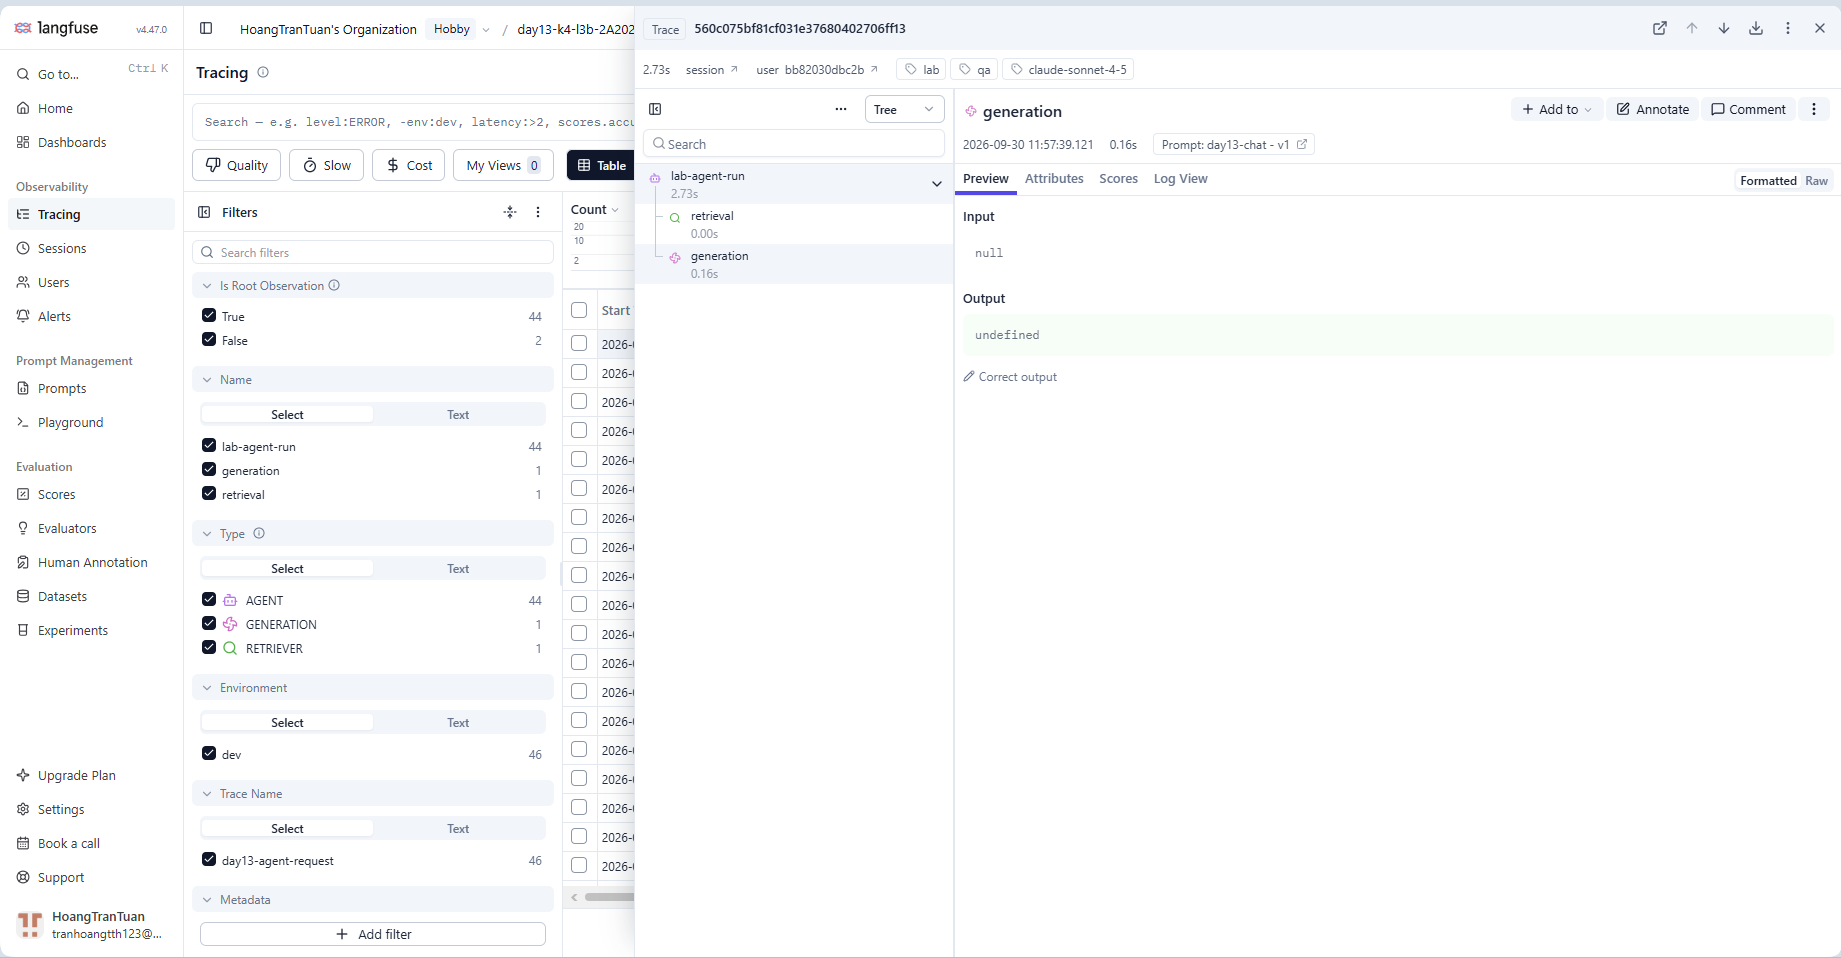
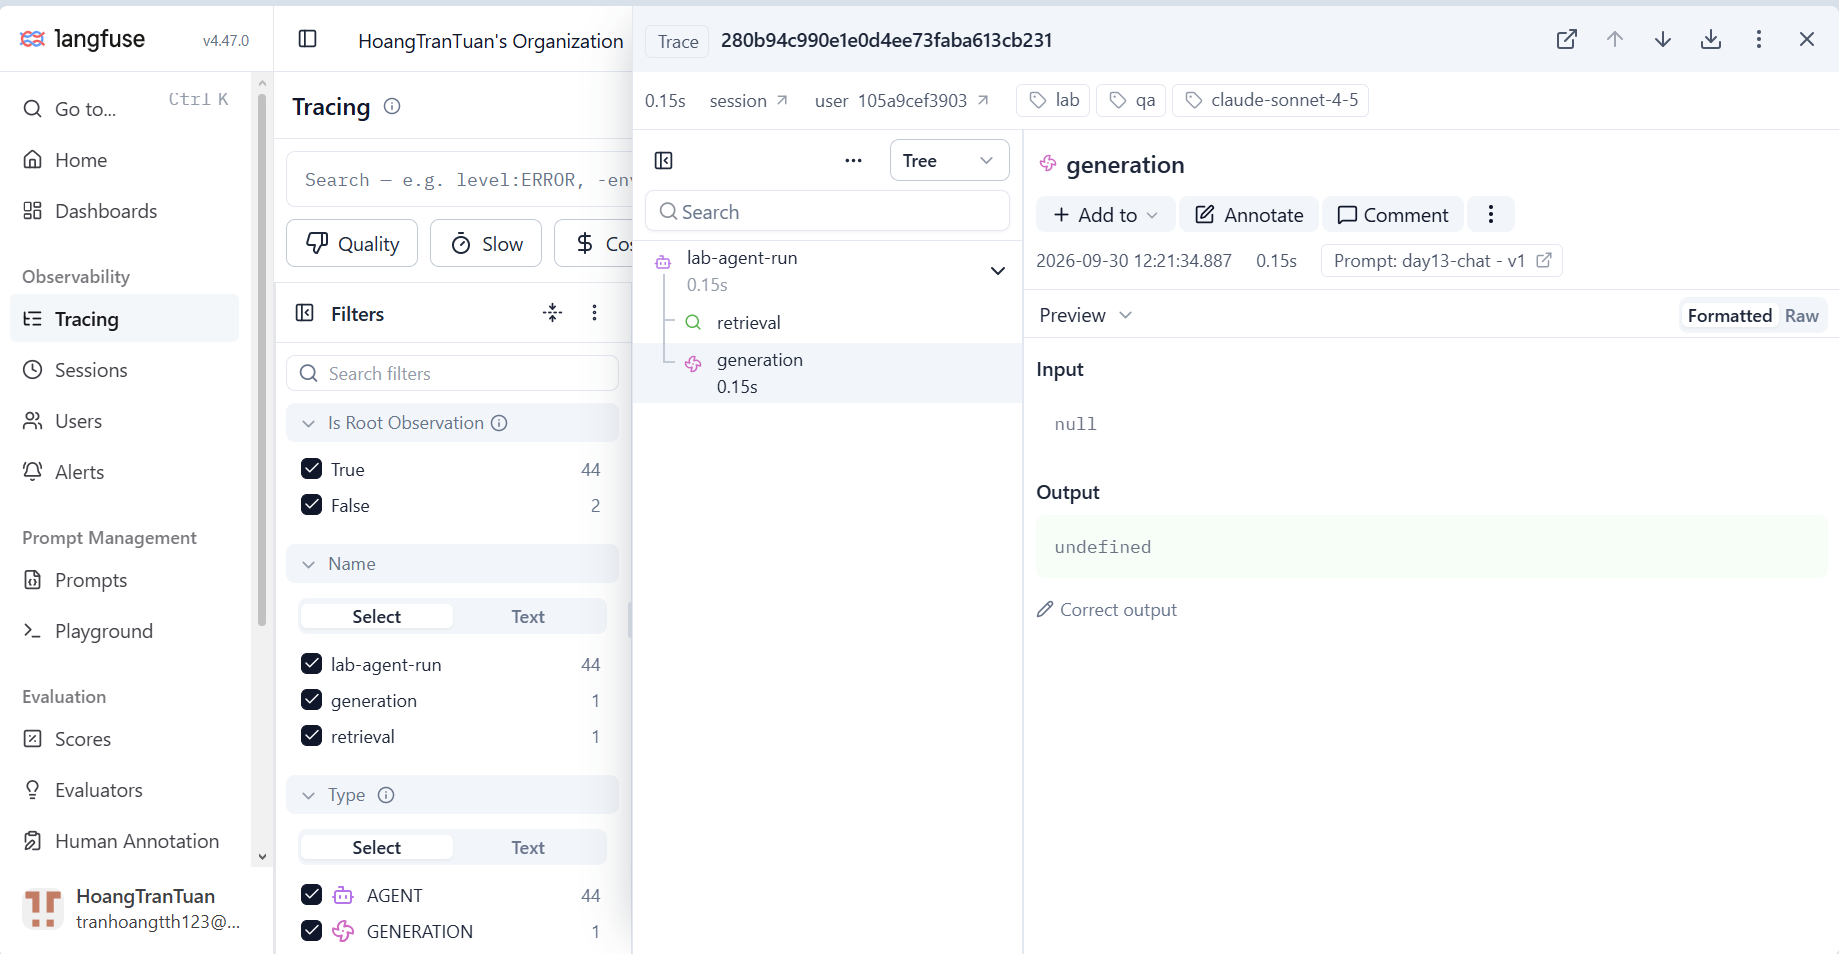
Update evidence

diff --git a/submission/evidence/dashboard.html b/submission/evidence/dashboard.html
@@ -56,7 +56,7 @@
         <div class="meta">
             <span class="badge">Time Range: Last 60m (UTC)</span>
             <span class="badge">Refresh: 30s</span>
-            <span class="badge">Records: 69 (69 in window)</span>
+            <span class="badge">Records: 40 (40 in window)</span>
         </div>
     </div>
 
@@ -71,15 +71,15 @@
             <div class="metrics-summary">
                 <div class="metric-item">
                     <div class="metric-label">P50</div>
-                    <div class="metric-value">2651.0 ms</div>
+                    <div class="metric-value">151.0 ms</div>
                 </div>
                 <div class="metric-item">
                     <div class="metric-label">P95</div>
-                    <div class="metric-value status-ok">2654.0 ms</div>
+                    <div class="metric-value status-ok">170.6 ms</div>
                 </div>
                 <div class="metric-item">
                     <div class="metric-label">P99</div>
-                    <div class="metric-value">2654.0 ms</div>
+                    <div class="metric-value">453.32 ms</div>
                 </div>
                 <div class="metric-item">
                     <div class="metric-label">TTFT P95</div>
@@ -90,9 +90,9 @@
                 <div class="threshold-line" style="bottom: 75%;">
                     <span class="threshold-label">SLO Threshold: 3000ms</span>
                 </div>
-                <div class="bar-group"><div class="bar" style="height: 66%;"></div><span class="bar-label">P50</span></div>
-                <div class="bar-group"><div class="bar" style="height: 66%;"></div><span class="bar-label">P95</span></div>
-                <div class="bar-group"><div class="bar" style="height: 66%;"></div><span class="bar-label">P99</span></div>
+                <div class="bar-group"><div class="bar" style="height: 5%;"></div><span class="bar-label">P50</span></div>
+                <div class="bar-group"><div class="bar" style="height: 5%;"></div><span class="bar-label">P95</span></div>
+                <div class="bar-group"><div class="bar" style="height: 11%;"></div><span class="bar-label">P99</span></div>
                 <div class="bar-group"><div class="bar purple" style="height: 5%;"></div><span class="bar-label">TTFT</span></div>
             </div>
         </div>
@@ -107,22 +107,22 @@
             <div class="metrics-summary">
                 <div class="metric-item">
                     <div class="metric-label">Total Requests</div>
-                    <div class="metric-value">32</div>
+                    <div class="metric-value">20</div>
                 </div>
                 <div class="metric-item">
                     <div class="metric-label">Active Minutes</div>
-                    <div class="metric-value">5 min</div>
+                    <div class="metric-value">1 min</div>
                 </div>
                 <div class="metric-item">
                     <div class="metric-label">Req / min Rate</div>
-                    <div class="metric-value status-ok">6.4</div>
+                    <div class="metric-value status-ok">20.0</div>
                 </div>
             </div>
             <div class="chart-box">
                 <div class="threshold-line" style="bottom: 25%;">
                     <span class="threshold-label">Threshold: 1 req/min</span>
                 </div>
-                <div class="bar-group"><div class="bar green" style="height: 100%;"></div><span class="bar-label">04:22</span></div><div class="bar-group"><div class="bar green" style="height: 100%;"></div><span class="bar-label">04:23</span></div><div class="bar-group"><div class="bar green" style="height: 15%;"></div><span class="bar-label">04:38</span></div><div class="bar-group"><div class="bar green" style="height: 15%;"></div><span class="bar-label">04:57</span></div><div class="bar-group"><div class="bar green" style="height: 100%;"></div><span class="bar-label">05:00</span></div>
+                <div class="bar-group"><div class="bar green" style="height: 100%;"></div><span class="bar-label">05:21</span></div>
             </div>
         </div>
 
@@ -167,18 +167,18 @@
             <div class="metrics-summary">
                 <div class="metric-item">
                     <div class="metric-label">Total Window Cost</div>
-                    <div class="metric-value status-ok">$0.06631</div>
+                    <div class="metric-value status-ok">$0.04242</div>
                 </div>
                 <div class="metric-item">
                     <div class="metric-label">Avg Cost / Req</div>
-                    <div class="metric-value">$0.00207</div>
+                    <div class="metric-value">$0.00212</div>
                 </div>
             </div>
             <div class="chart-box">
                 <div class="threshold-line" style="bottom: 85%;">
                     <span class="threshold-label">Daily Threshold: $2.50</span>
                 </div>
-                <div class="bar-group"><div class="bar yellow" style="height: 40%;"></div><span class="bar-label">04:22</span></div><div class="bar-group"><div class="bar yellow" style="height: 43%;"></div><span class="bar-label">04:23</span></div><div class="bar-group"><div class="bar yellow" style="height: 10%;"></div><span class="bar-label">04:38</span></div><div class="bar-group"><div class="bar yellow" style="height: 10%;"></div><span class="bar-label">04:57</span></div><div class="bar-group"><div class="bar yellow" style="height: 40%;"></div><span class="bar-label">05:00</span></div>
+                <div class="bar-group"><div class="bar yellow" style="height: 84%;"></div><span class="bar-label">05:21</span></div>
             </div>
         </div>
 
@@ -192,15 +192,15 @@
             <div class="metrics-summary">
                 <div class="metric-item">
                     <div class="metric-label">Tokens In</div>
-                    <div class="metric-value">1,072</div>
+                    <div class="metric-value">676</div>
                 </div>
                 <div class="metric-item">
                     <div class="metric-label">Tokens Out</div>
-                    <div class="metric-value">4,206</div>
+                    <div class="metric-value">2,693</div>
                 </div>
                 <div class="metric-item">
                     <div class="metric-label">Total Tokens</div>
-                    <div class="metric-value status-ok">5,278</div>
+                    <div class="metric-value status-ok">3,369</div>
                 </div>
             </div>
             <div class="chart-box">
@@ -227,14 +227,14 @@
                 </div>
                 <div class="metric-item">
                     <div class="metric-label">Evaluated Reqs</div>
-                    <div class="metric-value">32</div>
+                    <div class="metric-value">20</div>
                 </div>
             </div>
             <div class="chart-box">
                 <div class="threshold-line" style="bottom: 75%;">
                     <span class="threshold-label">Threshold: &ge; 0.75</span>
                 </div>
-                <div class="bar-group"><div class="bar green" style="height: 81%;"></div><span class="bar-label">#1</span></div><div class="bar-group"><div class="bar green" style="height: 81%;"></div><span class="bar-label">#2</span></div><div class="bar-group"><div class="bar green" style="height: 81%;"></div><span class="bar-label">#3</span></div><div class="bar-group"><div class="bar green" style="height: 81%;"></div><span class="bar-label">#4</span></div><div class="bar-group"><div class="bar green" style="height: 81%;"></div><span class="bar-label">#5</span></div><div class="bar-group"><div class="bar green" style="height: 81%;"></div><span class="bar-label">#6</span></div><div class="bar-group"><div class="bar green" style="height: 81%;"></div><span class="bar-label">#7</span></div><div class="bar-group"><div class="bar green" style="height: 81%;"></div><span class="bar-label">#8</span></div>
+                <div class="bar-group"><div class="bar green" style="height: 81%;"></div><span class="bar-label">#1</span></div><div class="bar-group"><div class="bar green" style="height: 81%;"></div><span class="bar-label">#2</span></div><div class="bar-group"><div class="bar green" style="height: 72%;"></div><span class="bar-label">#3</span></div><div class="bar-group"><div class="bar green" style="height: 81%;"></div><span class="bar-label">#4</span></div><div class="bar-group"><div class="bar green" style="height: 81%;"></div><span class="bar-label">#5</span></div><div class="bar-group"><div class="bar green" style="height: 81%;"></div><span class="bar-label">#6</span></div><div class="bar-group"><div class="bar green" style="height: 81%;"></div><span class="bar-label">#7</span></div><div class="bar-group"><div class="bar green" style="height: 81%;"></div><span class="bar-label">#8</span></div>
             </div>
         </div>
     </div>
